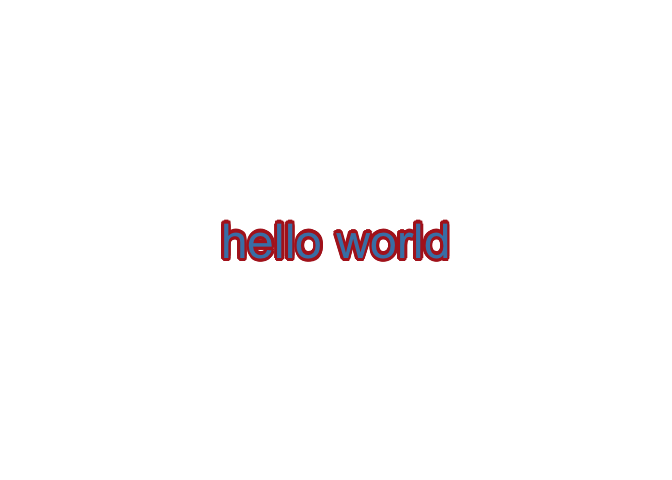
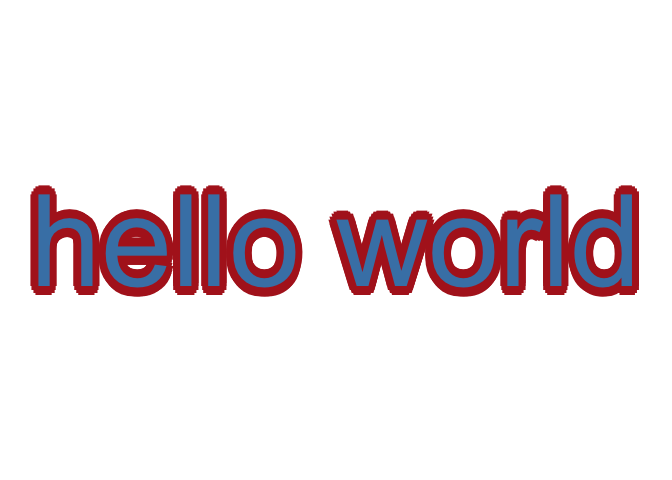
update example

Changed region(s): [[0.0312, 0.375, 0.9688, 0.625]]

diff --git a/README.md b/README.md
@@ -4,7 +4,7 @@ shadow text grob: `shadowtextGrob` and `grid.shadowtext`
 
 ``` r
 library(shadowtext)
-grid.shadowtext("hello world", gp=gpar(cex=3, col="steelblue"), bg.color="firebrick")
+grid.shadowtext("hello world", gp=gpar(cex=8, col="steelblue"), bg.color="firebrick")
 ```
 
 ![](Figs/unnamed-chunk-2-1.png)
